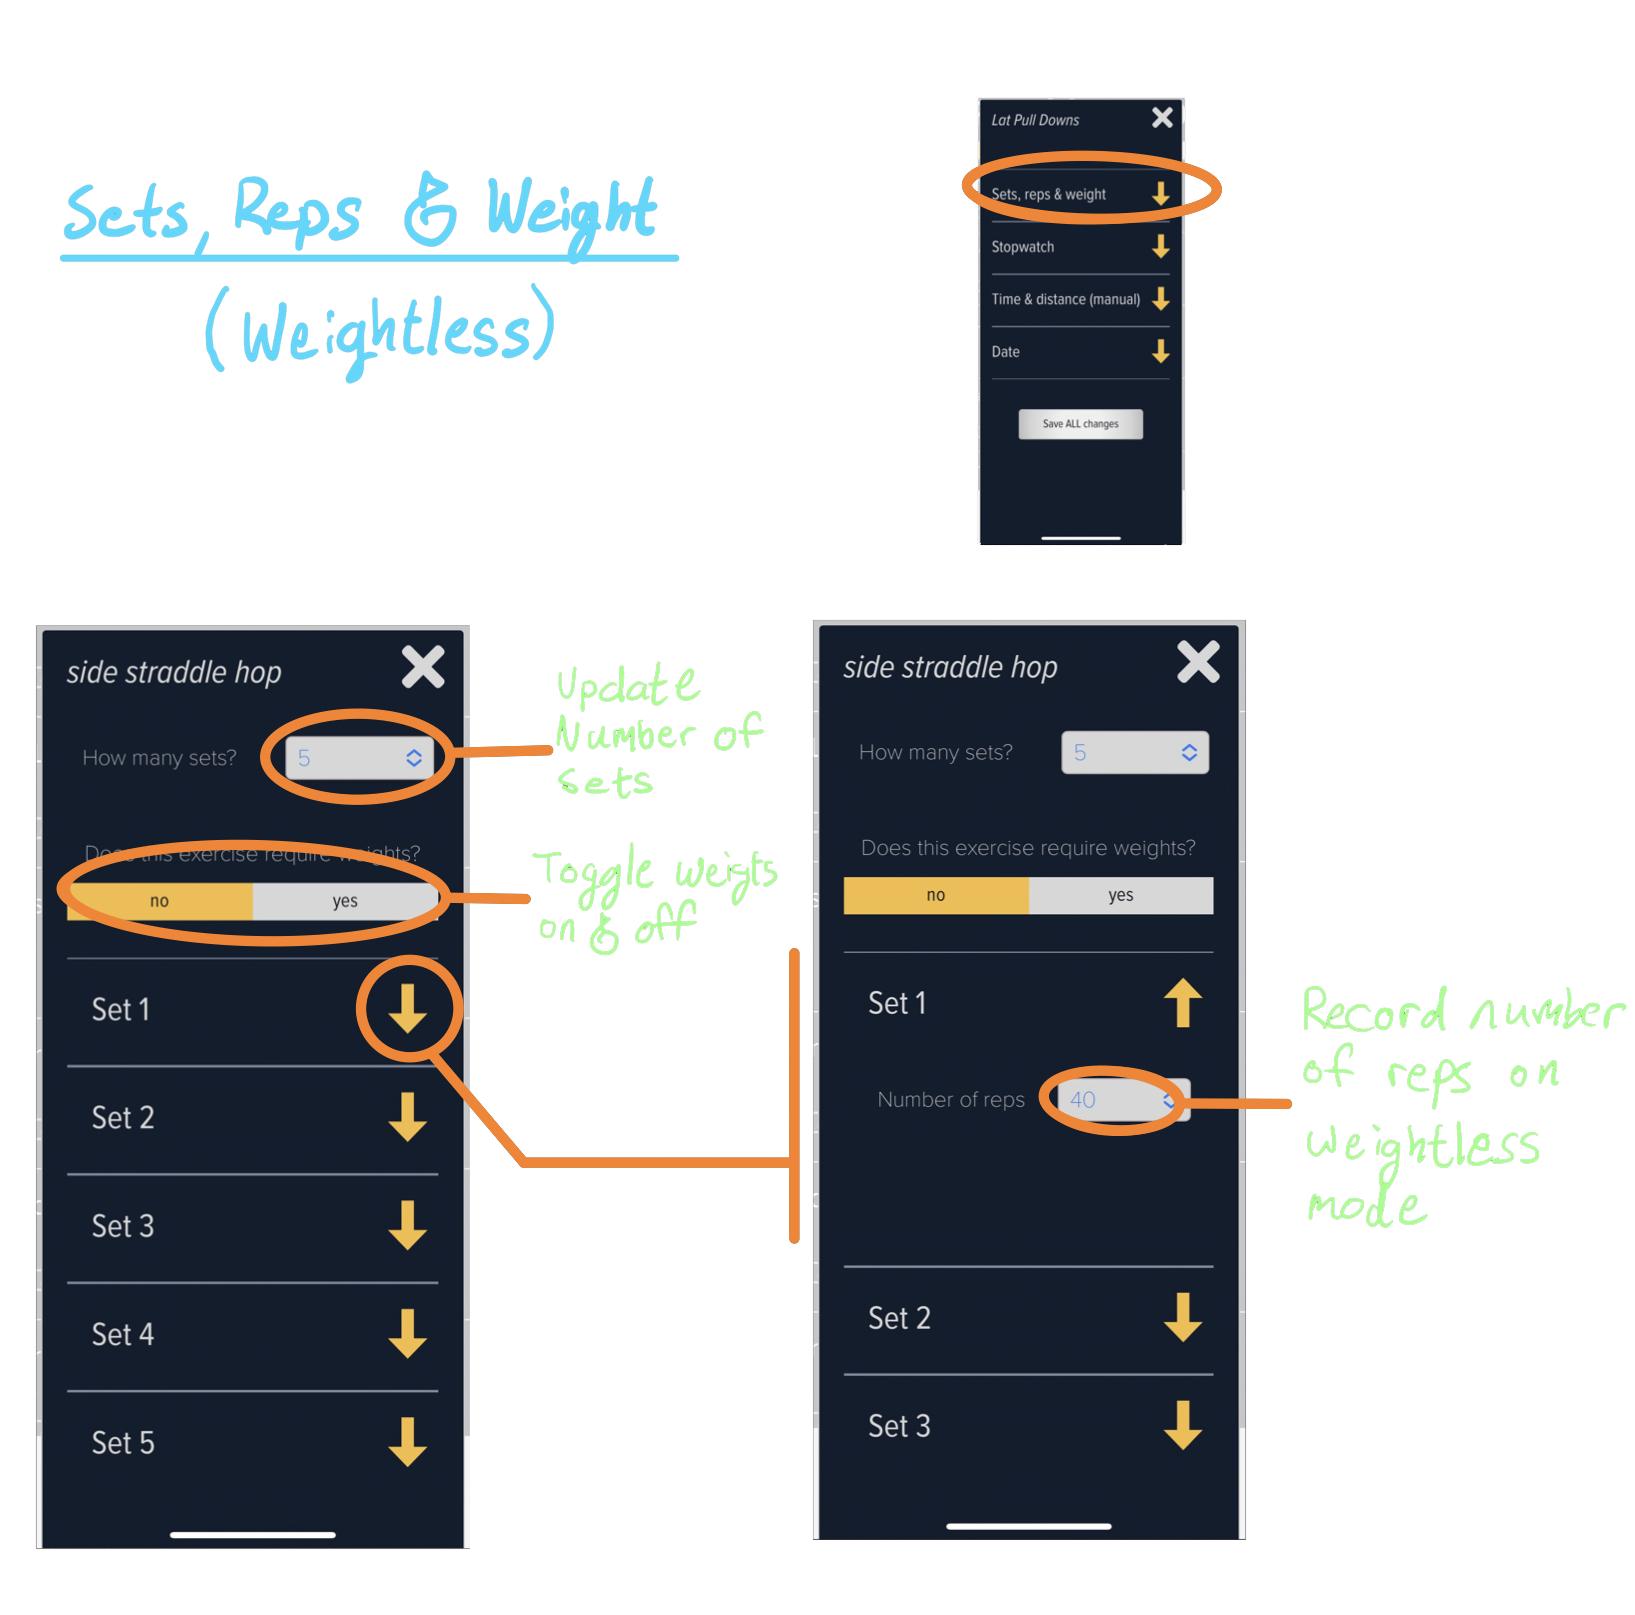
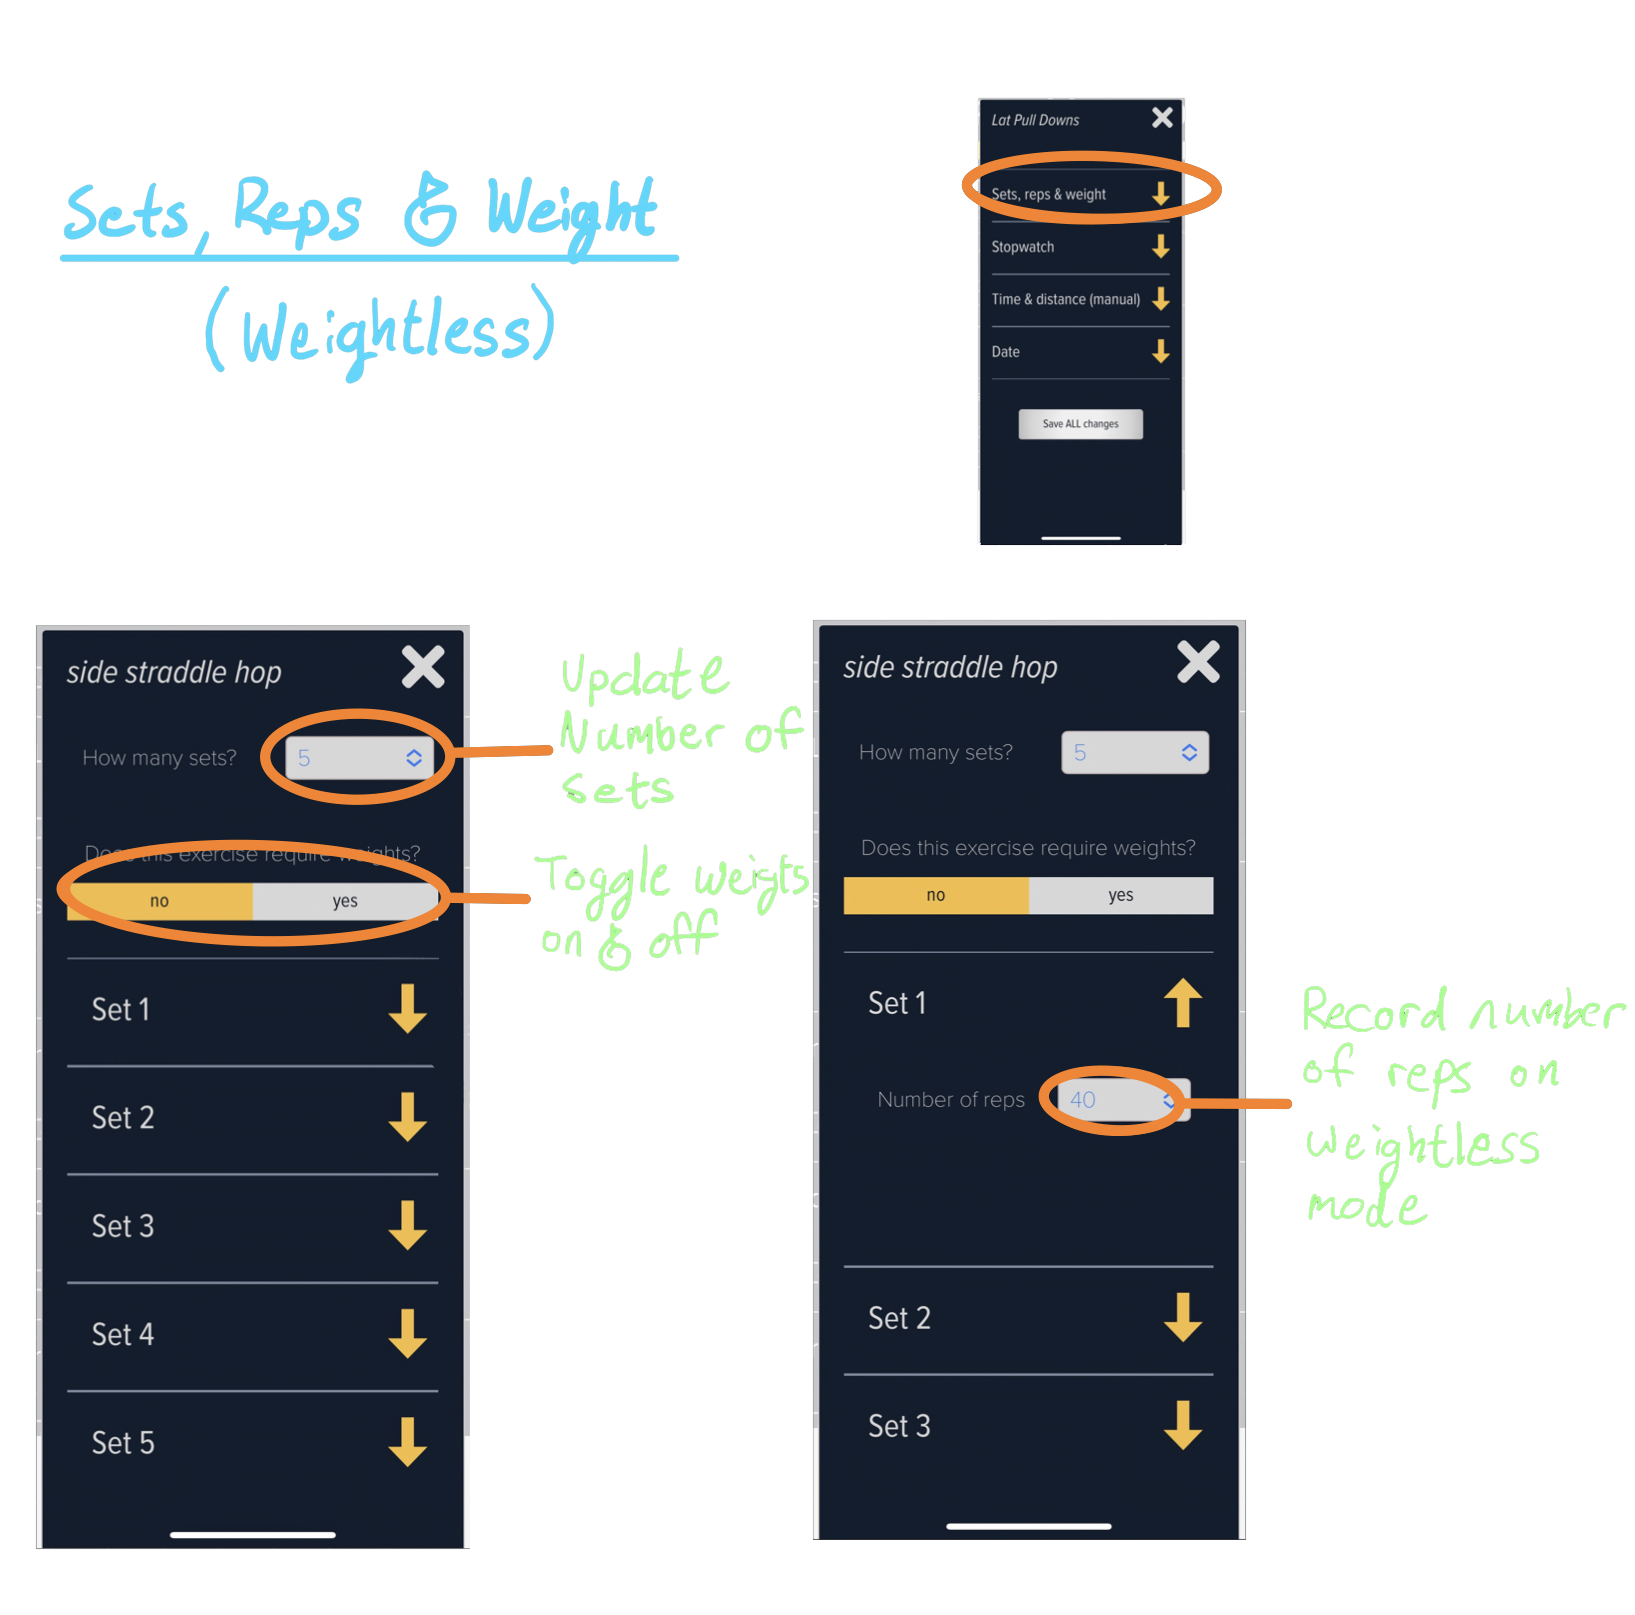
update

diff --git a/pages/racemate.html b/pages/racemate.html
@@ -118,17 +118,21 @@
             <br><br><br><br><br><br>
 
             <h3>Follow diagram to use this app.</h3><br><br>
+        </div>
+
+        
             <div class='graph-container'>
                 <div class='graph-box'>
                     <br><br><br><br>
-                    <div class='single-img'>
+                    <div class='full-band'>
                         <img 
                             alt='racemate-home'
                             src='../assets/racemate/01_home.png'
                             class='full-img'>
-                    </div><br><br><br>
+                    </div><br><br><br><br><br><br>
 
-                    <div class='duel-img'>
+<!-- ADD & EDIT -->
+                    <div class='double-band'>
                         <img
                             alt='add-edit'
                             src='../assets/racemate/02_add-edit.png'
@@ -137,60 +141,89 @@
                                 <img
                                     alt='add-edit-txt'
                                     src='../assets/racemate/02b_add-edit-txt.png'
-                                    class='half-img constrained-img'>
+                                    class='constrained-img'>
                             </div>
-                    </div><br><br><br>
+                    </div><br><br><br><br><br><br>
 
-                    <div class='single-img'>
+<!-- ACCORDION -->
+                    <div class='full-band'>
                         <img 
                             alt='racemate-accordion'
                             src='../assets/racemate/03_accordion.png'
                             class='full-img'>
-                    </div><br><br><br>
+                    </div><br><br><br><br><br><br>
 
-                    <div class='single-img'>
+<!-- SETS REPS WEIGHTLESS -->
+                    <div class='title'>
+                        <img src='../assets/racemate/sets-reps/title.png' 
+                            alt='sets-reps' class='half-img'>
+                        <img src='../assets/racemate/sets-reps/small-model.png' 
+                            alt='map' class='non-mobile'>
+                    </div><br><br><br>
+                    <div class='multi-band'>
+                        <img
+                            alt=''
+                            src='../assets/racemate/sets-reps/left-pane.png'
+                            class='small-img'>
+                        <img
+                            alt=''
+                            src='../assets/racemate/sets-reps/right-pane.png'
+                            class='small-img'>
                         <img 
-                            alt='reps'
-                            src='../assets/racemate/04_sets-reps.png'
-                            class='full-img'>
-                    </div><br><br><br>
+                            alt=''
+                            src='../assets/racemate/sets-reps/bottom-pane.png' 
+                            class='small-img'>
+                    </div><br><br><br><br><br><br>
 
-                    <div class='single-img'>
-                        <img 
-                            alt='reps-&-weight'
-                            src='../assets/racemate/04d_reps_large.png'
-                            class='full-img'>
+<!-- SETS REPS WEIGHTS  -->
+                    <div class='title'>
+                        <img src='../assets/racemate/sets-reps/title-weights.png' 
+                            alt='sets-reps' class='half-img'>
+                        <img src='../assets/racemate/sets-reps/small-model.png' 
+                            alt='map' class='non-mobile'>
                     </div><br><br><br>
+                    <div class='double-band'>
+                        <img
+                            alt=''
+                            src='../assets/racemate/sets-reps/left-pane-weights.png'
+                            class='half-img'>
+                        <img
+                            alt=''
+                            src='../assets/racemate/sets-reps/right-pane-weights.png'
+                            class='half-img'>
+                    </div>
 
-                    <div class='single-img'>
+                    
+
+                    <div class='full-band'>
                         <img 
                             alt='reps-&-weight'
                             src='../assets/racemate/05_stopwatch.png'
                             class='full-img'>
                     </div><br><br><br>
 
-                    <div class='single-img'>
+                    <div class='full-band'>
                         <img 
                             alt='reps-&-weight'
                             src='../assets/racemate/06_time-dis-manual.png'
                             class='full-img'>
                     </div><br><br><br>
 
-                    <div class='single-img'>
+                    <div class='full-band'>
                         <img 
                             alt='reps-&-weight'
                             src='../assets/racemate/07_date.png'
                             class='full-img'>
                     </div><br><br><br>
 
-                    <div class='single-img'>
+                    <div class='full-band'>
                         <img 
                             alt='reps-&-weight'
                             src='../assets/racemate/08_user-menu.png'
                             class='full-img'>
                     </div><br><br><br>
 
-                    <div class='single-img'>
+                    <div class='full-band'>
                         <img 
                             alt='reps-&-weight'
                             src='../assets/racemate/09_in-the-works.png'
@@ -198,9 +231,6 @@
                     </div><br><br><br>
                 </div>
             </div>
-            
-        </div>
-        
     <h6>Developed by Michael Paul McAuliffe &copy; 2022</h6> 
 </body> 
 </html>

diff --git a/assets/racemate.css b/assets/racemate.css
@@ -7,8 +7,12 @@
 
 .graph-box {
     /* height: 4000px; */
-    width: 1200px;
+    width: 81%;
     padding-bottom: 90px;
+
+    display: flex;
+    flex-direction: column;
+    align-items: center;
 
     background-size: 25px 25px;
     background-color: #808080;
@@ -18,49 +22,68 @@
 }
 
 
-.single-img {
-    /* width: 70%; */
-    display: flex;
-    justify-content: center;
-}
-.duel-img {
-    display: flex;
-    justify-content: space-around;
-}
-.cell {
-    display: flex;
-    flex-direction: column;
-    justify-content: center;
+.full-band, .double-band, .multi-band, title, .cell { display: flex; }
+
+.double-band, .multi-band { max-width: 800px; }
+
+.full-band { justify-content: center; } 
+
+.double-band { justify-content: space-around; }
+
+.multi-band { justify-content: space-evenly; flex-wrap: wrap; }
+
+.title { 
+    width: 80%;
+    max-width: 1000px;
+    justify-content: flex-start; 
 }
 
+.cell {
+    flex-direction: column;
+    justify-content: center;
+    align-items: center;
+}
+
+
 .full-img {
-    width: 700px;
+    width: 75%;
+    max-width: 700px;
 }
 .half-img {
-    width: 333px;
+    width: 40%;
+    max-width: 540px;
+}
+.small-img {
+    width: 35%;
+    max-width: 440px;
 }
 .constrained-img {
     height: 155px;
 }
+.non-mobile {
+    width: 17%;
+}
+
 
 
 @media only screen and (max-width: 910px){
+    .graph-box { width: 90%; }
     .full-img { width: 89%; }
 }
 
 @media only screen and (max-width: 715px){
-    /* .graph-container { width: 100vw; } */
-    .graph-box { width: 100%; }
-    .duel-img { width: 100%; flex-direction: column; align-items: center; }
+    .graph-box { width: 90%; }
+    .double-band, .multi-band { width: 100%; flex-direction: column; align-items: center; }
     .half-img { width: 61%; }
-    .constrained-img { height: auto; margin: 0 auto; }
+    .constrained-img { margin: 0 auto; }
 }
 
 @media only screen and (max-width: 480px){
-    /* .graph-container { width: 100vw; } 
     .graph-box { width: 100%; }
-    .duel-img { width: 100%; flex-direction: column; align-items: center; }*/
+    /* .graph-container { width: 100vw; } 
+    .double-band { width: 100%; flex-direction: column; align-items: center; }*/
     .half-img { width: 81%; }
+    .non-mobile { visibility: hidden; }
     /* .constrained-img { height: auto; margin: 0 auto; } */
 }
 
